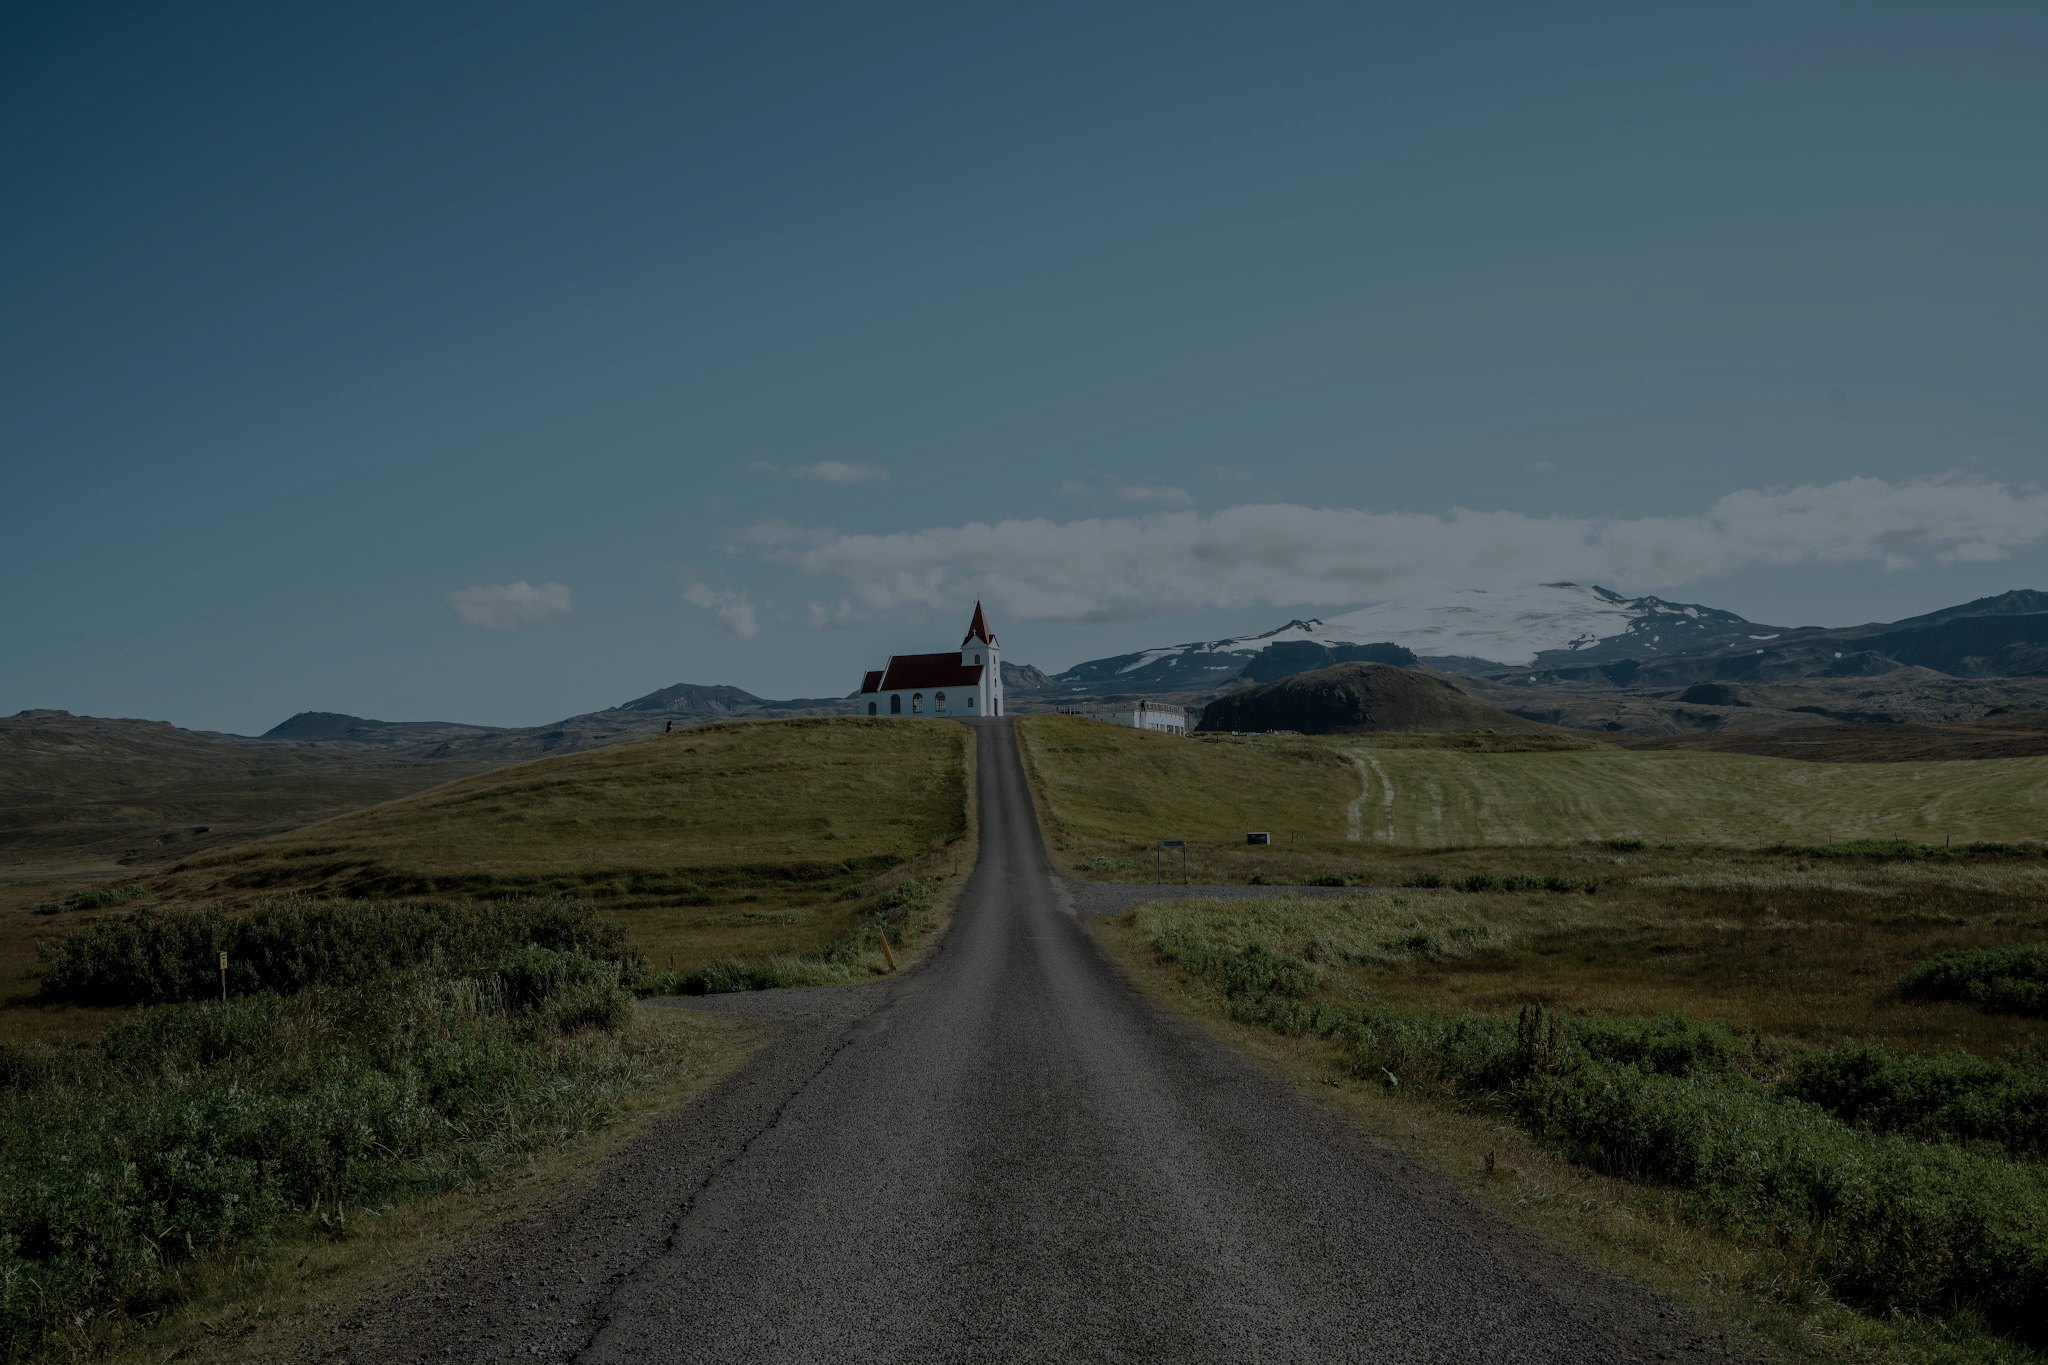
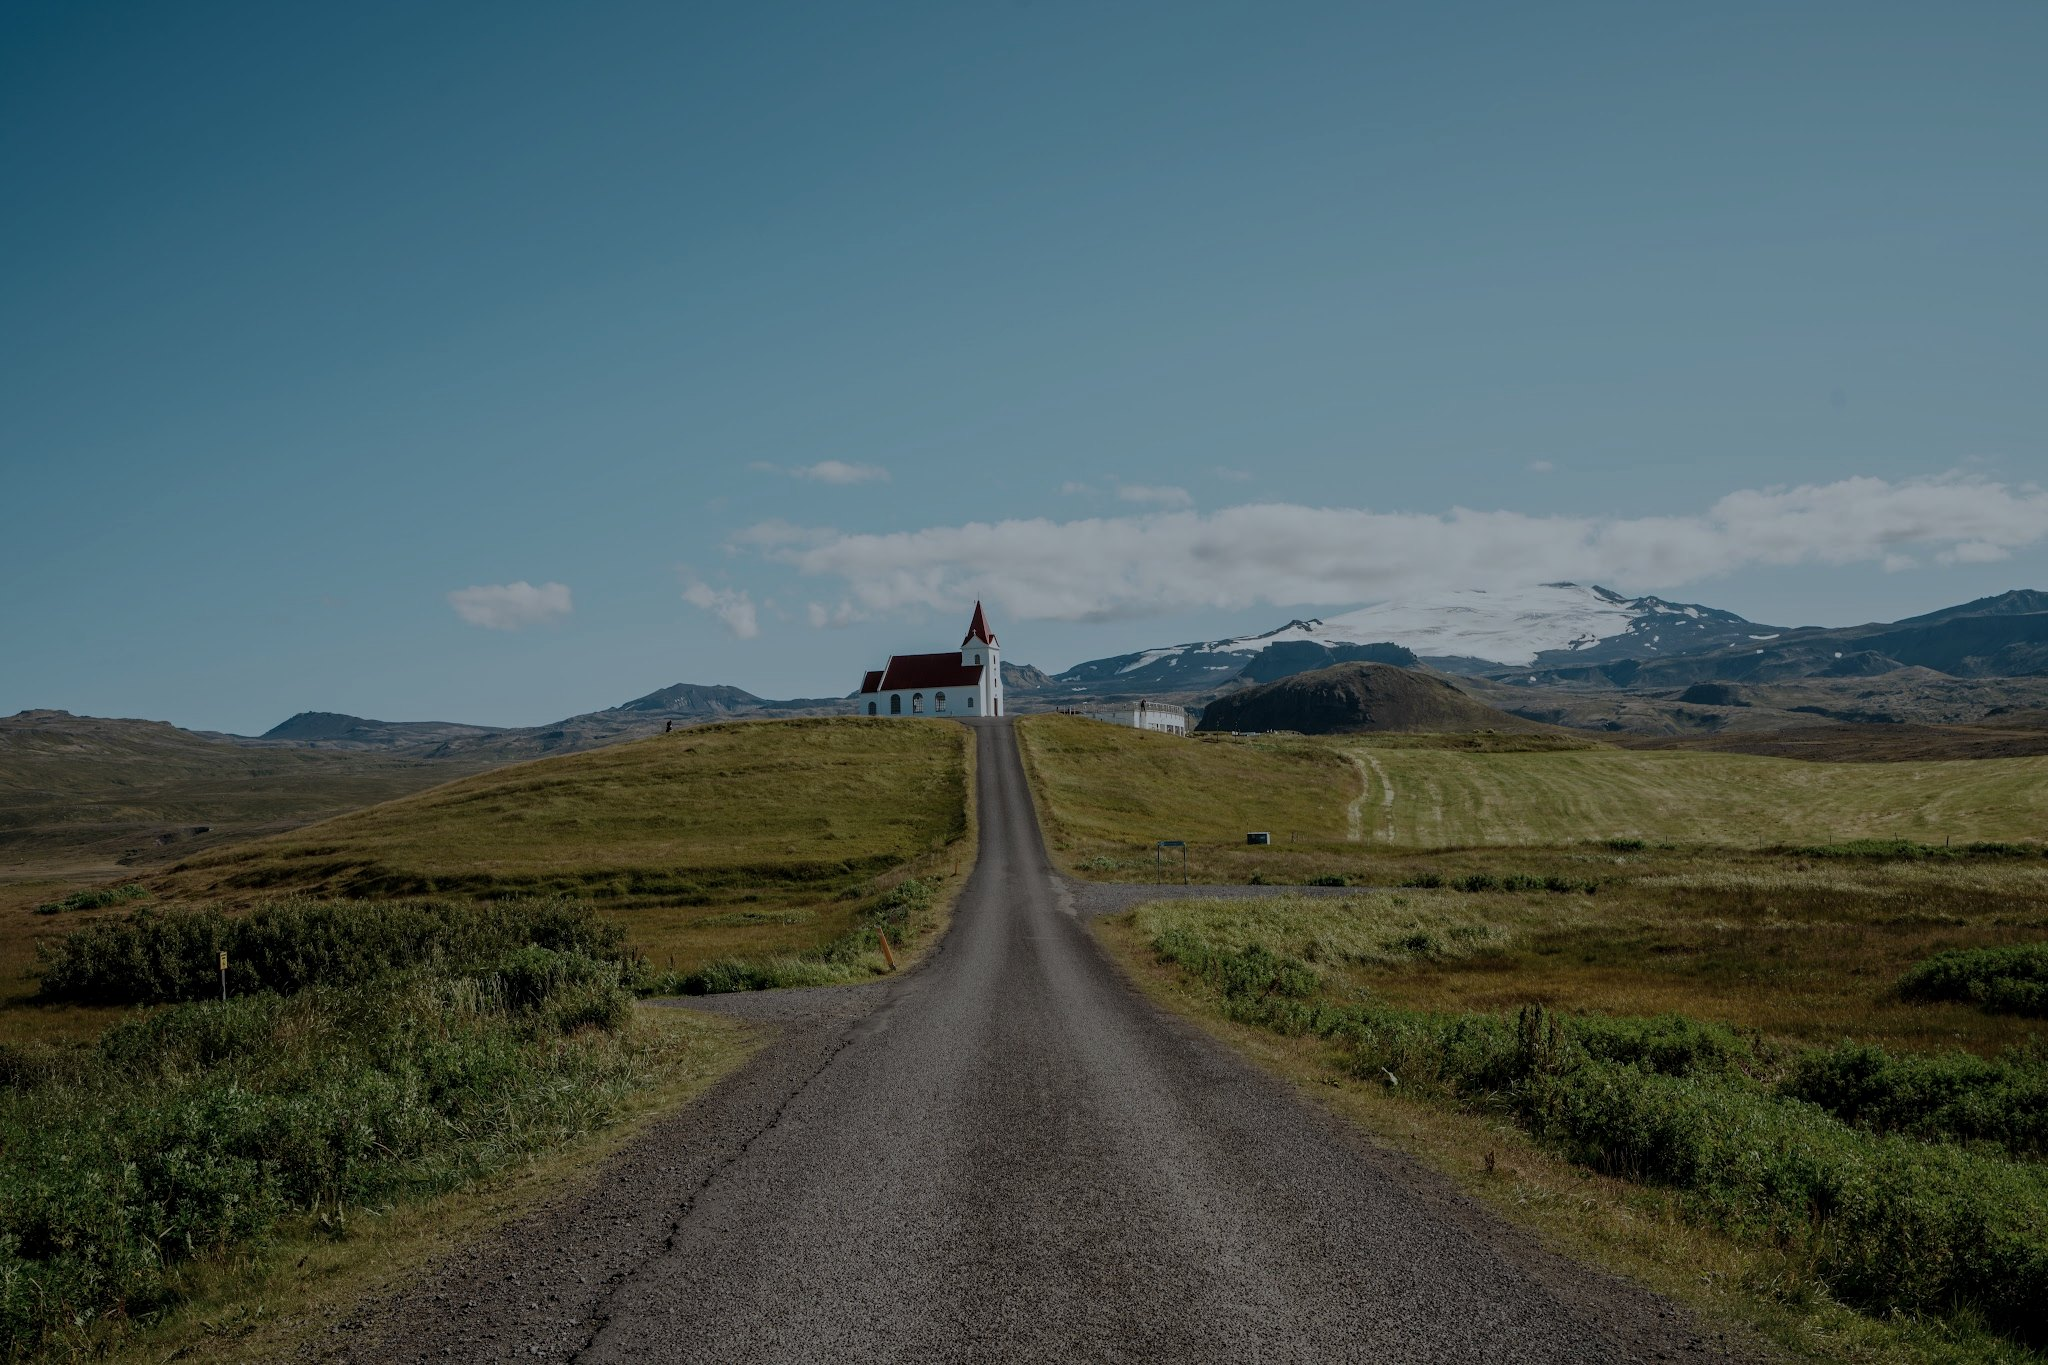
Add photographic under-layers to interior slides (no more flat black)
- Brighten the Iceland scene behind the trilogy map
- Give The Moment, The Setting, By the Numbers, Side Quests, Our Community
  and The Tradition heavily-scrimmed under-layer backgrounds from the IEpress
  gallery, each a distinct subject not used elsewhere and byte-verified unique
- Numbers gets a right-heavy scrim so the stats stay crisp over the crowd
- Record provenance in sources/README.md

diff --git a/index.html b/index.html
@@ -120,9 +120,11 @@
   /* subtle under-layer (keeps split + accent, replaces plain black) */
   .gslide.underbg .softphoto img{opacity:.5}
   .gslide.underbg .softphoto::after{background:linear-gradient(115deg,rgba(9,9,11,.86) 0%,rgba(9,9,11,.6) 55%,rgba(9,9,11,.74) 100%)}
+  /* numbers: stats sit on the right, so darken that side more */
+  .gslide.underbg.numbg .softphoto::after{background:linear-gradient(245deg,rgba(9,9,11,.86) 0%,rgba(9,9,11,.58) 55%,rgba(9,9,11,.72) 100%)}
   /* trilogy: soft-focus Iceland site under-layer so the map stays crisp */
-  .gslide.trilogy .softphoto img{opacity:.5;filter:blur(3.5px);transform:scale(1.05)}
-  .gslide.trilogy .softphoto::after{background:linear-gradient(115deg,rgba(9,9,11,.9) 0%,rgba(9,9,11,.66) 48%,rgba(9,9,11,.82) 100%)}
+  .gslide.trilogy .softphoto img{opacity:.6;filter:blur(3px);transform:scale(1.05)}
+  .gslide.trilogy .softphoto::after{background:linear-gradient(115deg,rgba(9,9,11,.82) 0%,rgba(9,9,11,.5) 48%,rgba(9,9,11,.72) 100%)}
   /* eclipse trilogy map + legs */
   .trilomap{width:100%;margin:.9em 0 1em;border-radius:10px;overflow:hidden;border:1px solid var(--line);box-shadow:0 14px 40px rgba(0,0,0,.4)}
   .trilomap img{width:100%;display:block}
@@ -273,7 +275,8 @@
   </section>
 
   <!-- 2 · THE MOMENT -->
-  <section class="slide">
+  <section class="slide gslide underbg">
+    <div class="softphoto"><img src="assets/moment-bg.jpg" alt=""/></div>
     <div class="pad"><div class="split">
       <div class="content">
         <div class="eyebrow">The Moment</div>
@@ -291,7 +294,8 @@
   </section>
 
   <!-- 3 · THE SETTING -->
-  <section class="slide">
+  <section class="slide gslide underbg">
+    <div class="softphoto"><img src="assets/setting-bg.jpg" alt=""/></div>
     <div class="pad"><div class="split">
       <div class="content">
         <div class="eyebrow">The Setting · Hellissandur</div>
@@ -305,7 +309,8 @@
   </section>
 
   <!-- 4 · BY THE NUMBERS -->
-  <section class="slide">
+  <section class="slide gslide underbg numbg">
+    <div class="softphoto"><img src="assets/numbers-bg.jpg" alt=""/></div>
     <div class="pad"><div class="split" style="grid-template-columns:.75fr 1.25fr">
       <div class="accent"><img src="assets/numbers.jpg" alt=""/></div>
       <div class="content">
@@ -398,7 +403,8 @@
   </section>
 
   <!-- 8 · SIDE QUESTS -->
-  <section class="slide">
+  <section class="slide gslide underbg">
+    <div class="softphoto"><img src="assets/sidequests-bg.jpg" alt=""/></div>
     <div class="pad">
       <div class="eyebrow">Side Quests</div>
       <h2>Bucket-list Nights Beyond the Field.</h2>
@@ -453,7 +459,8 @@
   </section>
 
   <!-- 9 · OUR COMMUNITY -->
-  <section class="slide">
+  <section class="slide gslide underbg">
+    <div class="softphoto"><img src="assets/community-bg.jpg" alt=""/></div>
     <div class="pad"><div class="split">
       <div class="content">
         <div class="eyebrow">Our Community</div>
@@ -542,7 +549,8 @@
   </section>
 
   <!-- 11 · THE TRADITION -->
-  <section class="slide">
+  <section class="slide gslide underbg">
+    <div class="softphoto"><img src="assets/tradition-bg.jpg" alt=""/></div>
     <div class="pad"><div class="split">
       <div class="content">
         <div class="eyebrow">The Tradition</div>

diff --git a/sources/README.md b/sources/README.md
@@ -42,6 +42,8 @@ Use these numbers, not the partnership deck's pre-event projections, wherever th
 
 **Current distinct set (all byte-verified unique, 2026-09-03):** cover = Snæfellsjökull glacier over farmstead landscape; the-moment = crescent-sun eclipse through clouds (Daniel, NOT the Bailey diamond-ring that imxp uses); numbers = sacred fire ceremony circle; reach-bg = blue-lit geodesic dome DJ stage; setting = Icelandic church-on-the-road (Hellissandur); programming-bg = Apashe performer, mic to sky; sidequests = glowing eclipse-ring "Push the Future" installation; community = antlered-crown costumed festival-goer portrait; partnership-bg = GusGus DJ in blue smoke; tradition = Temple of the Bird Tribes ceremony; whatsnext = festival grounds at golden-hour sunset (drone); thankyou = crowd jumping in front of the Iceland Eclipse banner; press = geodesic dome panel discussion.
 
+**Under-layer backgrounds added 2026-09-04 (all byte-verified unique against this deck + midnight-sun-deck + imxp-deck/v2/v3, IEpress manifest):** trilogy-bg = darkened/cooled/blurred derivative of `setting.jpg` (Snæfellsnes church-on-the-road) as a soft-focus under-layer behind the 2D route map; moment-bg = eclipse-stage crowd watching totality (Andrianna Kaimis); setting-bg = coastal village sunset panorama (Bailey); numbers-bg = drone aerial crowd gathering (Daniel), cropped landscape; sidequests-bg = campfire gathering crowd at night (Caitlin Guidry); community-bg = eclipse-stage crowd celebrating (Allison Powers); tradition-bg = silhouettes at dusk (Thad). All applied as heavily-scrimmed `gslide underbg` under-layers so no interior slide is flat black; subjects chosen distinct from every image already used.
+
 ## Deliberately NOT included
 
 - **The partnership deck's "notable participants" name list** (Paul Stamets, Adrian Grenier, Dr. Andrew Weil, Rick Doblin, Meow Wolf, Yuri's Night, etc.). Confirmed by directly reading the Texas Eclipse Event Recap deck (Canva `DAGE3PXQYkI`) that this is Texas Eclipse's own community roster, copy-pasted into the Iceland partnership deck's aspirational "community" section — not a confirmed 2026 Iceland roster. The real, confirmed 2026 lineup (sourced separately, see table above) is used instead.
